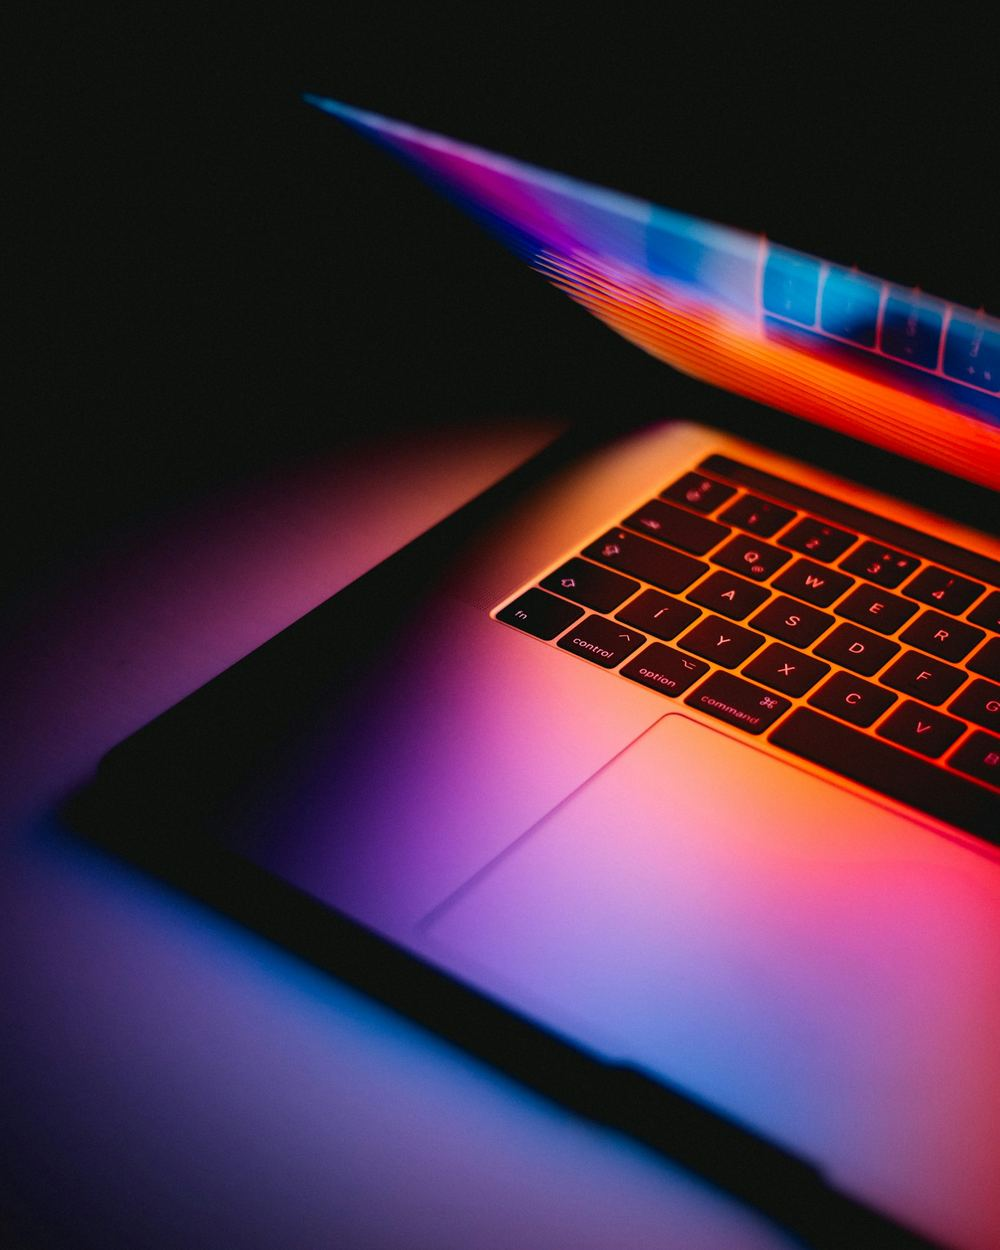
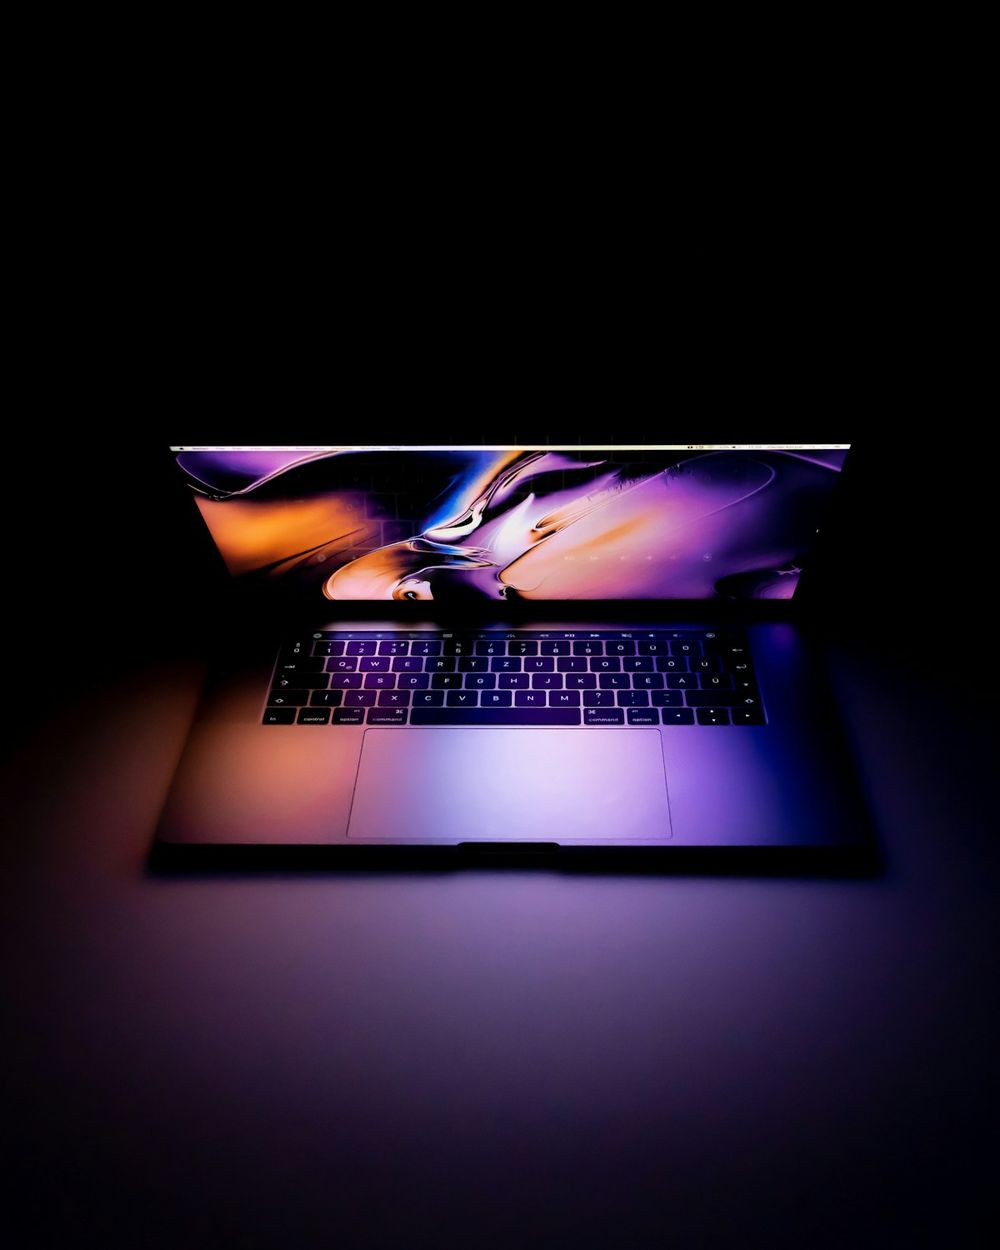
Tarjetas: nuevas fotos de portátiles e impresoras
Claude-Session: https://claude.ai/code/session_018GLVkMk44vPdrYYUcREdvf

diff --git a/index.html b/index.html
@@ -178,7 +178,7 @@
       </div>
       <div class="cards">
         <a class="card glow tilt reveal" style="--d:0" href="productos/">
-          <div class="card-visual"><span class="num">01</span><img src="assets/img/portatiles.jpg" alt="Computador portátil abierto" loading="lazy" width="1000" height="1250"></div>
+          <div class="card-visual"><span class="num">01</span><img src="assets/img/portatiles.jpg?v=2" alt="Computador portátil abierto con luz violeta" loading="lazy" width="1000" height="1250"></div>
           <div class="card-body">
             <small>Computadores</small>
             <h3 class="h3">Computadores portátiles</h3>
@@ -194,7 +194,7 @@
           </div>
         </a>
         <a class="card glow tilt reveal" style="--d:2" href="productos/">
-          <div class="card-visual"><span class="num">03</span><img src="assets/img/impresoras.jpg" alt="Impresora de inyección de tinta" loading="lazy" width="1000" height="666"></div>
+          <div class="card-visual"><span class="num">03</span><img src="assets/img/impresoras.jpg?v=2" alt="Impresora multifuncional láser blanca" loading="lazy" width="1000" height="667"></div>
           <div class="card-body">
             <small>Impresión</small>
             <h3 class="h3">Impresoras y consumibles</h3>
